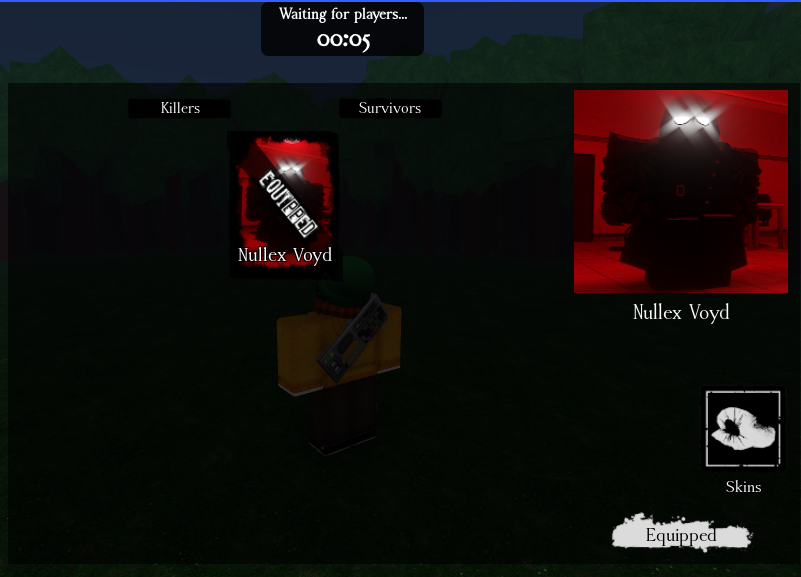
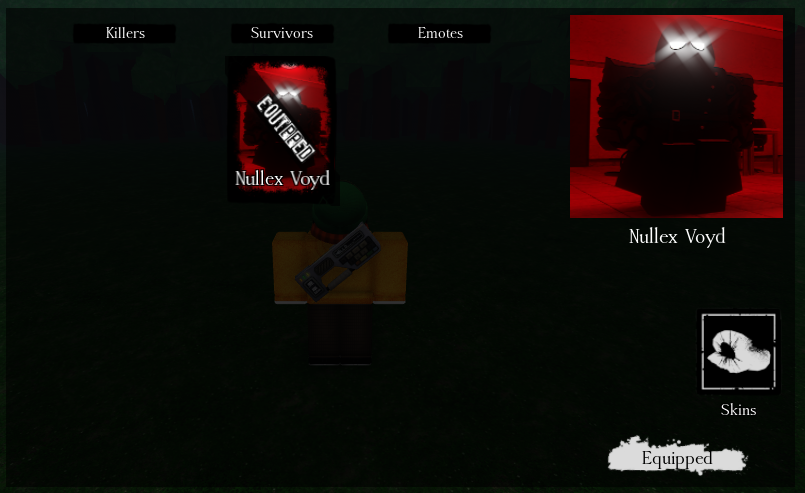
readme update

diff --git a/README.md b/README.md
@@ -17,7 +17,9 @@ For these templates, the animations will have to be replaced as the ones they ha
 ![AbilitiesScreenshot](dysdocs/abilitydef-ss.png)
 #### Pre-made customizable UI
 ![ShopScreenshot](dysdocs/shop-ss.png)
+![EmoteShopScreenshot](dysdocs/emoteshop-ss.png)
 ![InventoryScreenshot](dysdocs/inventory-ss.png)
+![EmoteInventoryScreenshot](dysdocs/emoteinventory-ss.png)
 ![StatsMenu](dysdocs/stats-ss.png)
 ![SettingsMenu](dysdocs/settings-ss.png)
 
